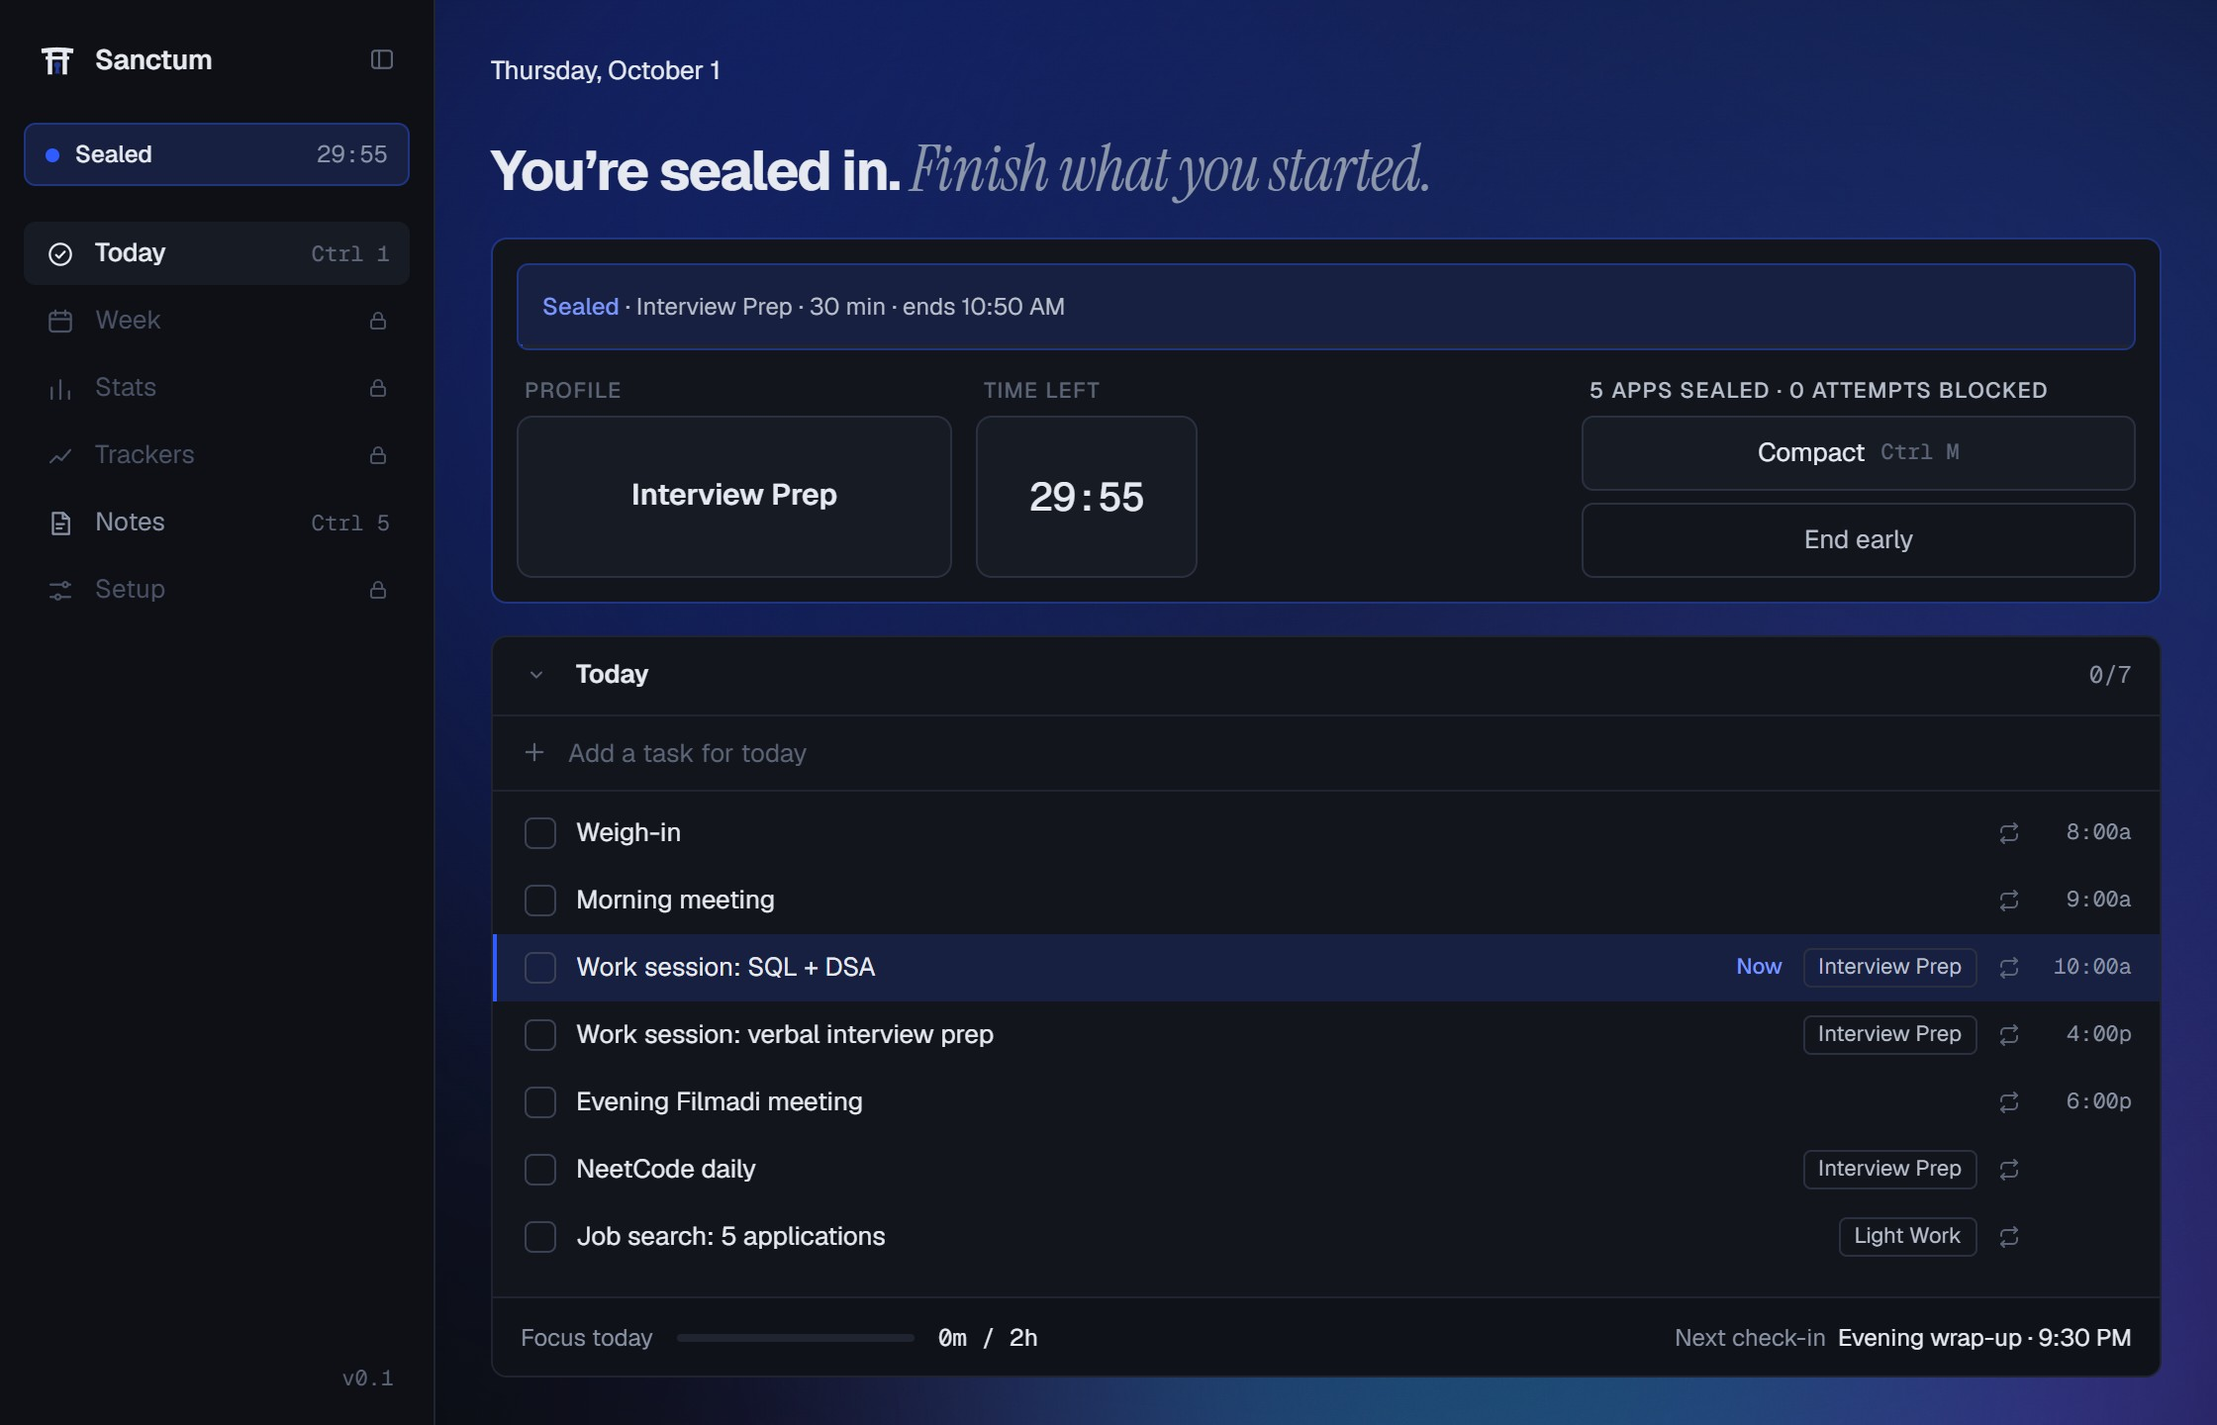
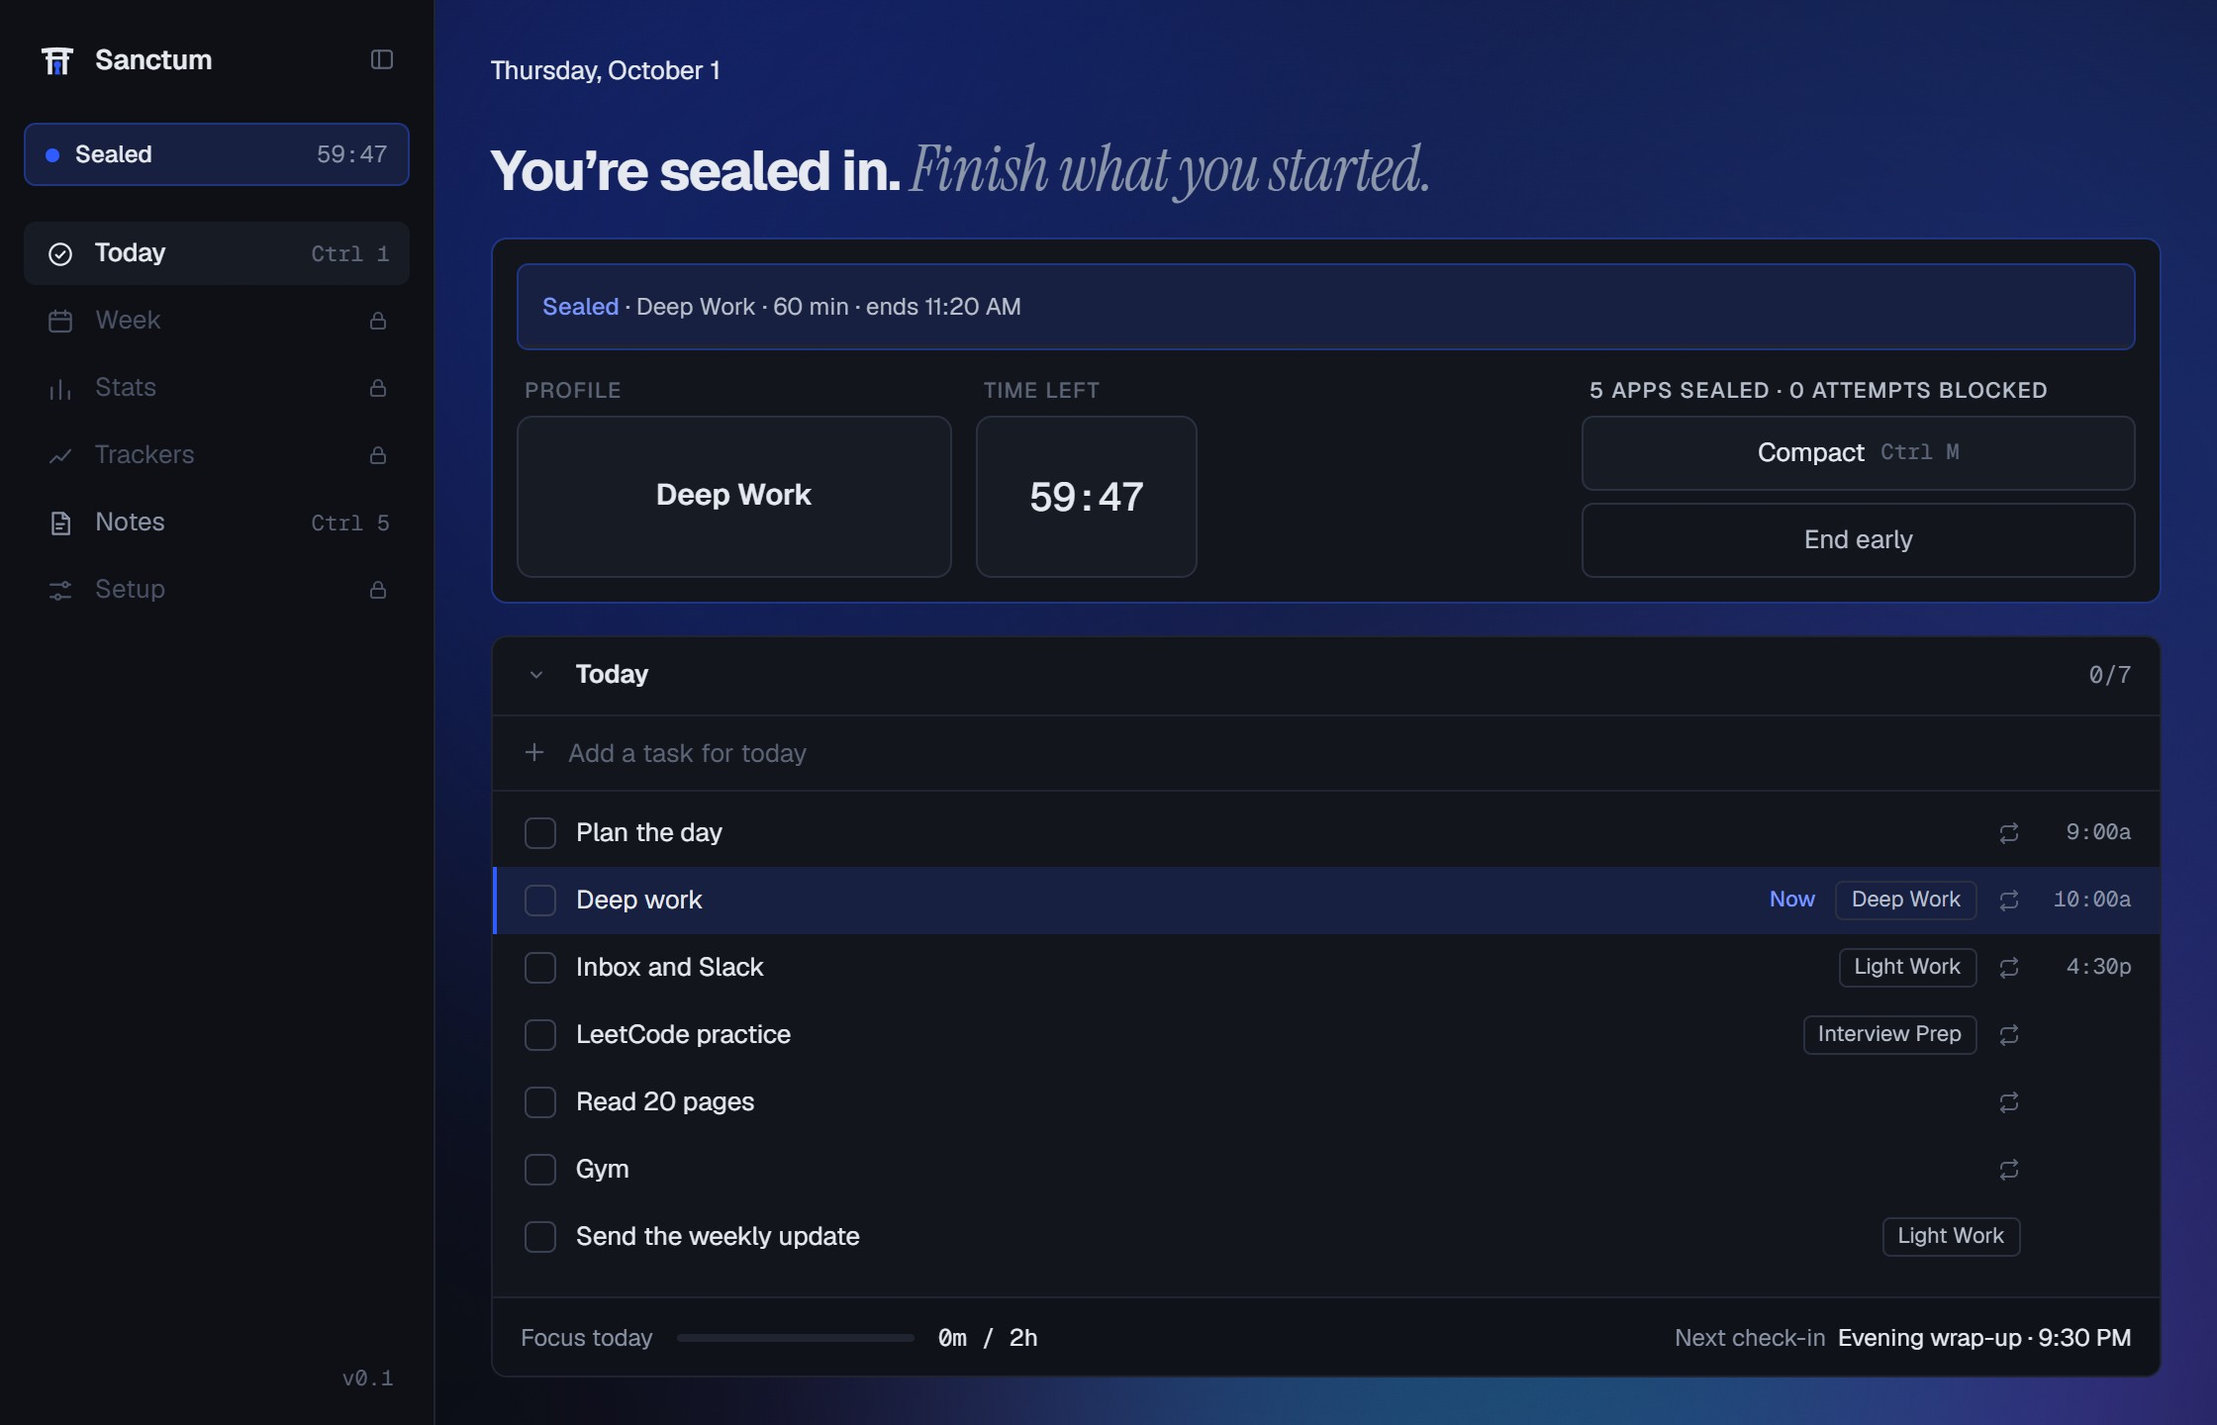
README: hero as an animated WebP, cleaner sample data, every screenshot redone
- The hero is recorded in slow motion and re-timed to 30 fps, with cross-fades,
  as a full-color WebP (scripts/make-hero.py replaces make-gif.py).
- Sample data reads like a real week: everyday routines, one Deep Work session,
  a Weekly review note, Weight/Sleep/Mood trackers, stats that add up.
- The overlay's Break the seal lines up with the card's text.
- The compact timer keeps ticking in the browser preview.

diff --git a/src/lib/devSeed.ts b/src/lib/devSeed.ts
@@ -43,16 +43,16 @@ export function seedDevPlanner(): Promise<void> {
     const id = (name: string) => profiles.find((p) => p.name === name)?.id ?? null;
     const base = { active: true, durationMin: null, profileId: null, time: null };
     const routines = [
-      { ...base, title: "Weigh-in", daysMask: 0b0010010, time: "08:00" },
-      { ...base, title: "Morning meeting", daysMask: WEEKDAYS_MASK, time: "09:00", durationMin: 30 },
-      { ...base, title: "Gym", daysMask: 0b0101010 },
-      { ...base, title: "NeetCode daily", daysMask: EVERY_DAY, profileId: id("Interview Prep") },
-      { ...base, title: "Work session: SQL + DSA", daysMask: WEEKDAYS_MASK, time: "10:00", durationMin: 60, profileId: id("Interview Prep") },
-      { ...base, title: "Job search: 5 applications", daysMask: WEEKDAYS_MASK, profileId: id("Light Work") },
-      { ...base, title: "Work session: verbal interview prep", daysMask: 0b0010100, time: "16:00", durationMin: 60, profileId: id("Interview Prep") },
-      { ...base, title: "Evening Filmadi meeting", daysMask: WEEKDAYS_MASK, time: "18:00", durationMin: 60 },
+      { ...base, title: "Morning run", daysMask: 0b0101010, time: "07:00", durationMin: 30 },
+      { ...base, title: "Plan the day", daysMask: WEEKDAYS_MASK, time: "09:00", durationMin: 15 },
+      { ...base, title: "Deep work", daysMask: WEEKDAYS_MASK, time: "10:00", durationMin: 90, profileId: id("Deep Work") },
+      { ...base, title: "LeetCode practice", daysMask: EVERY_DAY, profileId: id("Interview Prep") },
+      { ...base, title: "Read 20 pages", daysMask: EVERY_DAY },
+      { ...base, title: "Inbox and Slack", daysMask: WEEKDAYS_MASK, time: "16:30", durationMin: 30, profileId: id("Light Work") },
+      { ...base, title: "Gym", daysMask: 0b0010100 },
     ];
     for (const r of routines) await native.saveRoutine(r);
+    await native.saveTodo({ title: "Send the weekly update", dueDate: todayKey(), dueTime: null, durationMin: null, profileId: id("Light Work") });
     await native.setSetting("dev_seeded_planner", "1");
   })();
   return plannerRun;
@@ -66,12 +66,16 @@ export function seedDevStats(): void {
   if (!import.meta.env.DEV || import.meta.env.MODE === "test" || inTauri()) return;
   const today = todayKey();
   const days: Parameters<typeof mockControls.statsDays>[0] = {};
+  // This week's days carry the attempts the "What tempted you" list adds up to (21).
+  const dow = (new Date().getDay() + 6) % 7;
+  const weekAttempts = [8, 7, 6, 0, 0, 0];
   for (let i = 42; i >= 1; i--) {
     const k = addDays(today, -i);
     const n = (i * 37) % 11;
     if (n === 3) continue; // a missed day
     const focusMin = 60 + n * 18;
-    days[k] = { focusMin, attempts: n % 4, productiveMin: focusMin + 40, distractingMin: 10 + n * 3 };
+    const thisWeek = i <= dow;
+    days[k] = { focusMin, attempts: thisWeek ? (weekAttempts[dow - i] ?? 0) : n % 4, productiveMin: focusMin + 40, distractingMin: 10 + n * 3 };
     if (i === 17) days[k]!.brokenAt = new Date(`${k}T14:14:00`).getTime();
   }
   mockControls.statsDays(days, [
@@ -90,14 +94,14 @@ export async function seedDevTrackers(): Promise<void> {
   if (!import.meta.env.DEV || import.meta.env.MODE === "test" || inTauri()) return;
   if ((await native.listTrackers()).length) return;
   const w = await native.saveTracker({ name: "Weight", kind: "number", unit: "lb" });
-  const bf = await native.saveTracker({ name: "Body fat", kind: "number", unit: "%" });
+  const sleep = await native.saveTracker({ name: "Sleep", kind: "number", unit: "h" });
   const mood = await native.saveTracker({ name: "Mood", kind: "scale", display: "chart" });
   const journal = await native.saveTracker({ name: "Journal", kind: "text" });
   const days = Array.from({ length: 30 }, (_, i) => 104 - i * 3.5);
   mockControls.history(w.id, days.map((d, i) => [d, Math.round((184 - (11.6 * i) / 29 + Math.sin(i * 1.3) * 0.7) * 10) / 10]));
-  mockControls.history(bf.id, days.map((d, i) => [d, Math.round((20.1 - (4.3 * i) / 29 + Math.sin(i * 1.1) * 0.25) * 10) / 10]));
+  mockControls.history(sleep.id, days.map((d, i) => [d, Math.round((6.1 + (1.3 * i) / 29 + Math.sin(i * 1.7) * 0.35) * 10) / 10]));
   mockControls.history(mood.id, days.slice(-12).map((d, i) => [d, 5 + ((i * 3) % 5)]));
-  mockControls.history(journal.id, [[2, "Long day, but the interview prep is paying off."], [1, "Slept badly. Kept the seal anyway."]]);
-  await native.saveCheckin({ id: 0, name: "Morning weigh-in", time: "08:00", daysMask: 0b0010010, trackerIds: [w.id, bf.id], includeGoalReview: false });
+  mockControls.history(journal.id, [[2, "Shipped the refactor. Two seals kept."], [1, "Slept badly. Kept the seal anyway."]]);
+  await native.saveCheckin({ id: 0, name: "Morning check-in", time: "08:00", daysMask: WEEKDAYS_MASK, trackerIds: [w.id, sleep.id], includeGoalReview: false });
   await native.saveCheckin({ id: 0, name: "Evening wrap-up", time: "21:30", daysMask: EVERY_DAY, trackerIds: [mood.id, journal.id], includeGoalReview: true });
 }

diff --git a/partner/src/App.tsx b/partner/src/App.tsx
@@ -229,12 +229,12 @@ async function nameOf(id: string): Promise<string> {
 const DEMO: UnlockRequest = {
   id: "00000000-0000-0000-0000-000000000000",
   user_id: "demo",
-  reason: "Recruiter moved my call up and I need Discord for the shared screen link.",
+  reason: "My manager moved the design review up and I need Slack to share the deck.",
   created_at: new Date(Date.now() - 2 * 60_000).toISOString(),
   status: "pending",
   note: null,
-  profile_name: "Interview Prep",
-  ends_at: new Date(Date.now() + 32 * 60_000 + 14_000).toISOString(),
+  profile_name: "Deep Work",
+  ends_at: new Date(Date.now() + 52 * 60_000 + 14_000).toISOString(),
 };
 
 /** One unlock request, full screen (PartnerApprove.dc.html). `demo` uses sample data and sends nothing. */
@@ -252,7 +252,7 @@ function Approve({ id, demo = false }: { id: string; demo?: boolean }) {
   useEffect(() => {
     if (demo) {
       setR(DEMO);
-      setWho("Ryan");
+      setWho("Alex");
       setAsks(2);
       return;
     }
@@ -597,7 +597,7 @@ export function App() {
   }
   if (route.page === "demo") {
     return (
-      <Card context={<span>You're Ryan's accountability partner</span>}>
+      <Card context={<span>You're Alex's accountability partner</span>}>
         <Approve id={DEMO.id} demo />
       </Card>
     );

diff --git a/src/lib/mockBackend.ts b/src/lib/mockBackend.ts
@@ -968,6 +968,13 @@ export const mockControls = {
       endsAt: v.endsAt,
     } satisfies Intercept);
   },
+  /** Stops (or restarts) the running session's one-second tick, for the README recordings. */
+  pauseTicks(paused: boolean) {
+    if (paused) {
+      if (state.timer) clearInterval(state.timer);
+      state.timer = null;
+    } else if (state.session && !state.timer) state.timer = setInterval(tick, 1000);
+  },
   fastForward(ms: number) {
     if (!state.session) return;
     state.session.startedAt -= ms;
@@ -979,7 +986,7 @@ export const mockControls = {
     if (state.session) state.session.attempts += 1;
     const v = state.session
       ? view()
-      : { attempts: 3, profileName: "Interview Prep", elapsedMs: 18 * 60_000, remainingMs: 32 * 60_000 + 14_000 };
+      : { attempts: 3, profileName: "Deep Work", elapsedMs: 18 * 60_000, remainingMs: 72 * 60_000 + 14_000 };
     bus.emit(EV.intercept, {
       kind,
       label,
@@ -987,7 +994,7 @@ export const mockControls = {
       profileName: v.profileName,
       elapsedMs: v.elapsedMs,
       remainingMs: v.remainingMs,
-      backTo: "Visual Studio Code",
+      backTo: "Figma",
       keyword: kind === "title" ? "shorts" : null,
     } satisfies Intercept);
     if (state.session) bus.emit(EV.tick, v);

diff --git a/src/windows/Intercept.tsx b/src/windows/Intercept.tsx
@@ -64,7 +64,8 @@ export function SealedAppCard({ p, onBack, onBreak }: { p: Payload; onBack: () =
         </div>
       </div>
       <div className="flex items-center gap-2 border-t border-line bg-panel-footer px-[22px] py-3">
-        <Button variant="quiet" onClick={onBreak}>
+        {/* Quiet on purpose (Blocked.dc.html); pulled left by its padding so the text lines up with the card. */}
+        <Button variant="quiet" className="-ml-3" onClick={onBreak}>
           Break the seal
         </Button>
         <span className="ml-auto whitespace-nowrap text-meta text-faint">
@@ -103,7 +104,7 @@ export function QuietCard({ p, onBack, onPause }: { p: Payload; onBack: () => vo
         </div>
       </div>
       <div className="flex items-center gap-2 border-t border-line bg-panel-footer px-[22px] py-3">
-        <Button variant="quiet" onClick={onPause}>
+        <Button variant="quiet" className="-ml-3" onClick={onPause}>
           Pause 15 min
         </Button>
         <span className="ml-auto whitespace-nowrap text-meta text-faint">

diff --git a/scripts/make-hero.py b/scripts/make-hero.py
@@ -1,0 +1,100 @@
+"""The README's hero animation from what scripts/screenshots.mjs records (docs/screenshots/frames).
+
+Open -> Enter focus -> the seal fades in -> a sealed app is caught -> Sanctum held -> back to
+Open. Animated WebP, not GIF: full color, so the gradients stay smooth instead of banding.
+The slow-motion clips are re-timed to a steady 30 fps and every cut is a cross-fade.
+Run after `npm run screenshots` (it calls this):  python scripts/make-hero.py
+"""
+
+import json
+from pathlib import Path
+
+from PIL import Image, ImageEnhance
+
+ROOT = Path(__file__).resolve().parent.parent
+FRAMES = ROOT / "docs" / "screenshots" / "frames"
+OUT = ROOT / "docs" / "screenshots" / "sanctum.webp"
+WIDTH = 960
+FPS = 30
+STEP = round(1000 / FPS)
+
+
+def fit(img: Image.Image) -> Image.Image:
+    img = img.convert("RGB")
+    return img.resize((WIDTH, round(img.height * WIDTH / img.width)), Image.LANCZOS)
+
+
+def load(name: str) -> Image.Image:
+    return fit(Image.open(FRAMES / f"{name}.png"))
+
+
+def clip(name: str) -> list[Image.Image]:
+    """A recorded clip, re-timed to FPS: for each tick, the latest frame captured by then."""
+    folder = FRAMES / name
+    times = json.loads((folder / "times.json").read_text())
+    frames = [fit(Image.open(folder / f"{i:03d}.jpg")) for i in range(len(times))]
+    out, k = [], 0
+    for t in range(0, times[-1] + 1, STEP):
+        while k + 1 < len(times) and times[k + 1] <= t:
+            k += 1
+        out.append(frames[k])
+    return out
+
+
+def fade(a: Image.Image, b: Image.Image, ms: int) -> list[Image.Image]:
+    n = max(2, ms // STEP)
+    return [Image.blend(a, b, (i + 1) / n) for i in range(n)]
+
+
+def main() -> None:
+    open_ = load("open")
+    sealed = load("sealed")
+    held = load("held")
+    seal = clip("seal")
+    build = clip("held")
+
+    # The overlay a sealed app gets, over the dimmed sealed screen, as it sits on a desktop.
+    overlay = Image.open(FRAMES / "overlay.png").convert("RGBA")
+    scale = WIDTH / 1120
+    overlay = overlay.resize((round(480 * scale), round(290 * scale)), Image.LANCZOS)
+    caught = ImageEnhance.Brightness(sealed).enhance(0.55)
+    caught.paste(overlay, ((caught.width - overlay.width) // 2, (caught.height - overlay.height) // 2), overlay)
+
+    frames: list[Image.Image] = []
+    durations: list[int] = []
+
+    def hold(img: Image.Image, ms: int) -> None:
+        frames.append(img)
+        durations.append(ms)
+
+    def run(imgs: list[Image.Image]) -> None:
+        frames.extend(imgs)
+        durations.extend([STEP] * len(imgs))
+
+    hold(open_, 1600)
+    run(seal)
+    hold(sealed, 900)
+    run(fade(sealed, caught, 220))
+    hold(caught, 2000)
+    run(fade(caught, sealed, 220))
+    hold(sealed, 500)
+    run(fade(sealed, build[0], 300))
+    run(build)
+    hold(held, 2400)
+    run(fade(held, open_, 450))
+
+    frames[0].save(
+        OUT,
+        save_all=True,
+        append_images=frames[1:],
+        duration=durations,
+        loop=0,
+        quality=82,
+        method=6,
+    )
+    total = sum(durations) / 1000
+    print(f"{OUT.relative_to(ROOT)}  {len(frames)} frames  {total:.1f}s  {OUT.stat().st_size / 1_000_000:.1f} MB")
+
+
+if __name__ == "__main__":
+    main()

diff --git a/CHANGELOG.md b/CHANGELOG.md
@@ -39,7 +39,9 @@
 - CI: the cloud URL test no longer needs a Supabase URL at build time (CI builds without one).
 - **Home page, privacy policy, and terms** for Google's consent screen: `/about`, `/privacy`, and `/terms` on the partner site, linked from every page's footer. Contact: the maintainer's email.
 - **Delete account** in Setup › Partner and on the partners page: typed confirmation, never while sealed. A new Edge Function (`account-delete`) removes the account; everything that belongs to it cascades.
-- **README:** a product page with a hero GIF and screenshots of every screen, generated by `npm run screenshots` (Edge via puppeteer-core, then `scripts/make-gif.py`).
+- **README:** a product page with a hero animation and screenshots of every screen, generated by `npm run screenshots` (Edge via puppeteer-core, then `scripts/make-hero.py`). The hero is an animated WebP, not a GIF: full color with no banding, the transitions recorded in slow motion and re-timed to a steady 30 fps, and every cut a cross-fade.
+- The sample data reads like a real week: everyday routines (Morning run, Plan the day, Deep work, Inbox and Slack), one Deep Work session across every window, a Weekly review note, Weight, Sleep, and Mood trackers, and stats whose attempts add up.
+- The blocked overlay's Break the seal and Pause 15 min line up with the card's text instead of sitting indented.
 - The compact timer keeps ticking in the browser preview (a StrictMode double mount dropped its tick listener).
 - The tray panel opens beside the taskbar on whichever edge it sits (left, right, top, or bottom) and never covers it.
 - **Emails carry the real app icon** (a PNG served by the partner site, since mail clients drop SVG) instead of a cobalt square, in the sign-in templates and every partner email.

diff --git a/README.md b/README.md
@@ -15,7 +15,7 @@ A focus app for Windows that actually holds. Pick what you're working on, enter 
 ![Windows 10 and 11](https://img.shields.io/badge/Windows-10%20%7C%2011-0B0D12)
 ![Built with Tauri](https://img.shields.io/badge/built%20with-Tauri%202-24C8DB)
 
-<img src="docs/screenshots/sanctum.gif" width="880" alt="Entering focus: the seal closes, Discord is caught and sent back, and the session ends with Sanctum held." />
+<img src="docs/screenshots/sanctum.webp" width="880" alt="Entering focus: the seal closes, Discord is caught and sent back, and the session ends with Sanctum held." />
 
 </div>
 
@@ -85,7 +85,7 @@ Custom trackers (numbers, yes/no, 1 to 10, or text) with charts and scheduled ch
 
 | Trackers | Notes |
 |---|---|
-| <img src="docs/screenshots/trackers.png" alt="Trackers: weight, body fat, and mood charts" /> | <img src="docs/screenshots/notes.png" alt="Notes: a note with bullets and checkboxes" /> |
+| <img src="docs/screenshots/trackers.png" alt="Trackers: weight, sleep, and mood charts" /> | <img src="docs/screenshots/notes.png" alt="Notes: a note with bullets and checkboxes" /> |
 
 ### An accountability partner, on their phone
 
